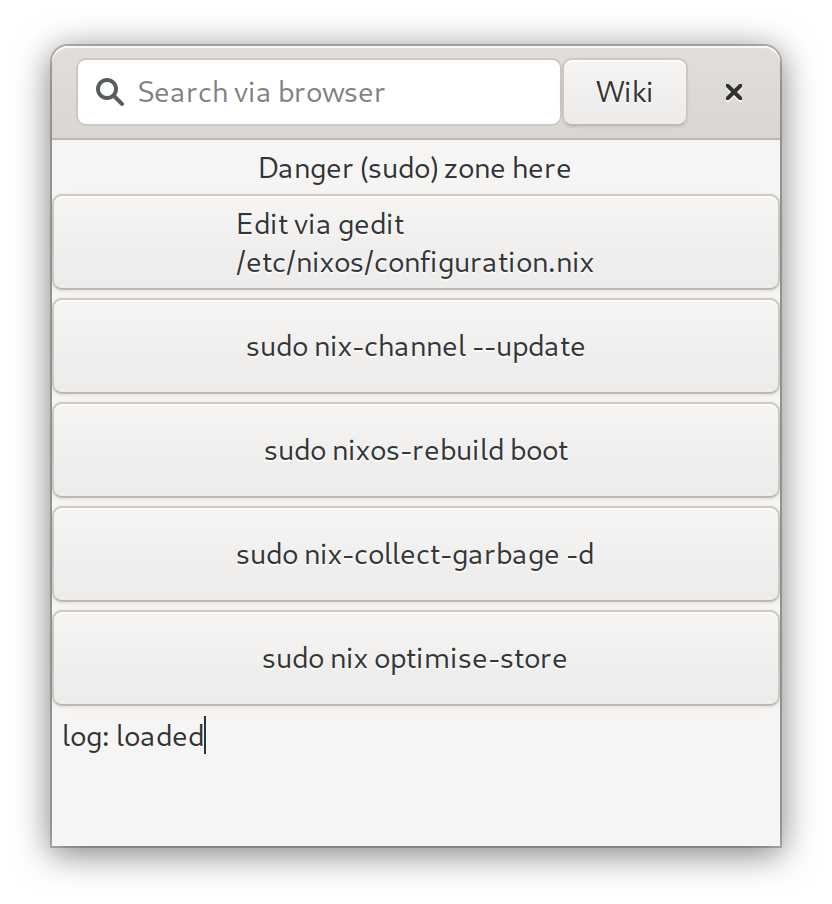
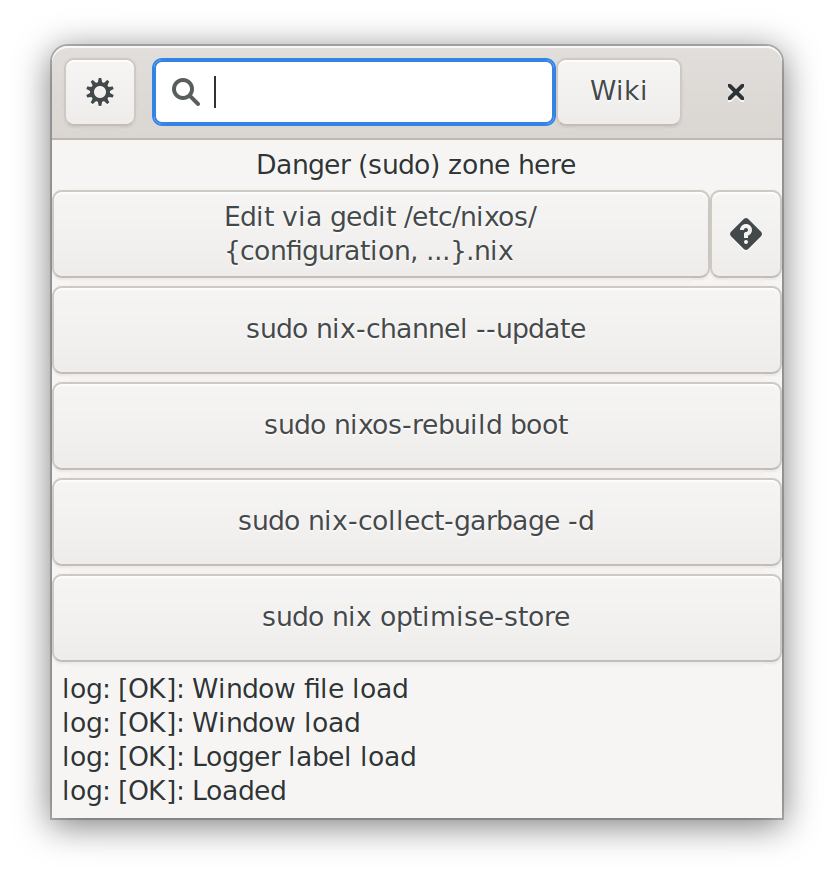
Add simple logging Add configuration testing Start work on config file

diff --git a/main.go b/main.go
@@ -5,47 +5,120 @@ import (
 	"fmt"
 	"log"
 	"os/exec"
+	"strings"
+	"sync"
 
+	"github.com/gotk3/gotk3/glib"
 	"github.com/gotk3/gotk3/gtk"
 )
 
 const (
-	search_nixos = iota
-	search_nixos_wiki = iota
+	search_nixos_packages = iota
+	search_nixos_wiki
 )
 
 const (
-	shell_update = iota
-	shell_rebuild = iota
-	shell_garbage = iota
-	shell_optimize = iota
+	shell_configuration_check = iota
+	shell_update
+	shell_rebuild
+	shell_garbage
+	shell_optimize
 )
 
-//go:embed main.glade
-var main_glade string
+//go:embed main.ui
+var main_ui string
+
+type Config struct {
+	files []string
+}
+
+type Logger struct {
+	logger  *gtk.Label
+	logText []string
+}
+
+type LogEvent struct {
+	err error
+	str string
+}
+
+func (le LogEvent) Error() (result string) {
+	if le.err == nil {
+		result = "[OK]: " + le.str
+	} else {
+		result = le.err.Error() + "\t" + le.str
+	}
+	return
+}
+
+func (l *Logger) Init(errEvent <-chan LogEvent, wgDone func()) {
+	var count int
+	var logLine, outputText string
+	var logText []string = []string{}
+
+	for e := range errEvent {
+		logLine = e.Error()
+		logText = append(logText, logLine)
+		fmt.Println(logLine)
+		if l.logger != nil {
+			if count = len(logText) - 4; count < 0 {
+				count = 4
+			}
+			outputText = "log: " + strings.Join(logText[count:], "\nlog: ")
+			l.logger.SetText(outputText)
+		}
+	}
+	wgDone()
+}
 
 func shell(option int) error {
+	var title string
 	var text string
 	var bash_pressanykey string = ` ; read -n 1 -s -r -p 'Press any key to continue'`
 	switch option {
+	case shell_configuration_check:
+		title = "nixos-rebuild dry-build"
+		text = title
 	case shell_update:
-		text = "sudo nix-channel --update" + bash_pressanykey
+		title = "sudo nix-channel --update"
+		text = title
 	case shell_rebuild:
-		text = "sudo nixos-rebuild boot" + bash_pressanykey
+		title = "sudo nixos-rebuild boot"
+		text = title
 	case shell_garbage:
-		text = "sudo nix-collect-garbage -d" + bash_pressanykey
+		title = "sudo nix-collect-garbage -d"
+		text = title
 	case shell_optimize:
-		text = "sudo nix optimise-store" + bash_pressanykey
+		title = "sudo nix optimise-store"
+		text = title
 	}
-	err := exec.Command("gnome-terminal", "--", "bash", "-c",
-			text,
-		).Start()
+	err := exec.Command("gnome-terminal", "--title="+title, "--", "bash", "-c",
+		text+bash_pressanykey,
+	).Run()
+	return err
+}
+
+func gedit_open(files []string) error {
+	var launch []string
+
+	for i, f := range files {
+		files[i] = "admin:///etc/nixos/" + f + ".nix"
+	}
+
+	launch = append([]string{
+		"-s",
+		"admin:///etc/nixos/configuration.nix",
+	}, files...)
+
+	var err error = exec.Command("gedit",
+		launch...,
+	).Start()
 	return err
 }
 
 func search(option int, text string) error {
 	switch option {
-	case search_nixos:
+	case search_nixos_packages:
 		text = "https://search.nixos.org/packages?channel=21.05&from=0&size=50&sort=relevance&query=" + text
 	case search_nixos_wiki:
 		text = "https://nixos.wiki/index.php?go=Go&search=" + text
@@ -54,21 +127,53 @@ func search(option int, text string) error {
 	return err
 }
 
+func read_config() (Config, error) {
+	var files = []string{
+		"packages",
+		"specialisation", //fileSystems-home hardware-configuration networking-wireless-networks
+	}
+	var conf = Config{
+		files: files,
+	}
+	return conf, nil
+}
+
 func main() {
+	var logChan chan LogEvent = make(chan LogEvent)
+	var err error
+	var b *gtk.Builder
+	var obj glib.IObject
+	var logger Logger = Logger{
+		logger: nil,
+	}
+
+	var wg sync.WaitGroup
+
+	var config Config
+
+	wg.Add(1)
+	go logger.Init(logChan, wg.Done)
+
+	config, err = read_config()
+	logChan <- LogEvent{err, "Config read"}
+
 	// Initialize GTK without parsing any command line arguments.
 	gtk.Init(nil)
 
-	b, err := gtk.BuilderNew()
+	b, err = gtk.BuilderNew()
+	logChan <- LogEvent{err, "Builder create"}
 	if err != nil {
 		log.Fatal("Unable to create builder:", err)
 	}
 
-	err = b.AddFromString(main_glade)
+	err = b.AddFromString(main_ui)
+	logChan <- LogEvent{err, "Window file load"}
 	if err != nil {
 		log.Fatal("Unable to load window file:", err)
 	}
 
-	obj, err := b.GetObject("window_main")
+	obj, err = b.GetObject("window_main")
+	logChan <- LogEvent{err, "Window load"}
 	if err != nil {
 		log.Fatal("Unable to load window:", err)
 	}
@@ -78,19 +183,23 @@ func main() {
 		gtk.MainQuit()
 	})
 
-	obj, _ = b.GetObject("log")
-	log_text := obj.(*gtk.Label)
-	log_text.SetText("log: loaded")
+	obj, err = b.GetObject("log")
+	logChan <- LogEvent{err, "Logger label load"}
+	logger.logger = obj.(*gtk.Label)
+	logChan <- LogEvent{nil, "Loaded"}
 
 	obj, _ = b.GetObject("search_text")
 	search_text := obj.(*gtk.SearchEntry)
-	//obj, _ = b.GetObject("search_button")
-	//search_button := obj.(*gtk.Button)
 	obj, _ = b.GetObject("wiki")
 	wiki_button := obj.(*gtk.Button)
 
+	obj, _ = b.GetObject("open_settings")
+	open_settings := obj.(*gtk.Button)
+
 	obj, _ = b.GetObject("gedit")
 	gedit := obj.(*gtk.Button)
+	obj, _ = b.GetObject("configuration_check")
+	configuration_check := obj.(*gtk.Button)
 	obj, _ = b.GetObject("update")
 	update := obj.(*gtk.Button)
 	obj, _ = b.GetObject("rebuild")
@@ -100,50 +209,56 @@ func main() {
 	obj, _ = b.GetObject("optimize")
 	optimize := obj.(*gtk.Button)
 
-	search_text.Connect("activate", func() {
-		if text, err := search_text.GetText(); err == nil {
-			err = search(search_nixos, text)
-			log_text.SetText(fmt.Sprintf("log: %v", err))
-		}
+	open_settings.Connect("clicked", func() {
+		logChan <- LogEvent{nil, "WIP: settings"}
 	})
 
-	/*search_button.Connect("clicked", func() {
+	search_text.Connect("activate", func() {
 		if text, err := search_text.GetText(); err == nil {
-			err = search(search_nixos, text)
-			log_text.SetText(fmt.Sprintf("log: %v", err))
+			err = search(search_nixos_packages, text)
+			logChan <- LogEvent{err, ("Search in nix: " + text)}
+		} else {
+			logChan <- LogEvent{err, "GetText for Search nix"}
 		}
-	})*/
+	})
 
 	wiki_button.Connect("clicked", func() {
 		if text, err := search_text.GetText(); err == nil {
 			err = search(search_nixos_wiki, text)
-			log_text.SetText(fmt.Sprintf("log: %v", err))
+			logChan <- LogEvent{err, ("Search in wiki: " + text)}
+		} else {
+			logChan <- LogEvent{err, "GetText for Search wiki"}
 		}
 	})
 
 	gedit.Connect("clicked", func() {
-		err = exec.Command("gedit", "admin:///etc/nixos/configuration.nix").Start()
-		log_text.SetText(fmt.Sprintf("log: %v", err))
+		err = gedit_open(config.files)
+		logChan <- LogEvent{err, "Open gedit"}
+	})
+
+	configuration_check.Connect("clicked", func() {
+		err = shell(shell_configuration_check)
+		logChan <- LogEvent{err, "Check configuration"}
 	})
 
 	update.Connect("clicked", func() {
 		err = shell(shell_update)
-		log_text.SetText(fmt.Sprintf("log: %v", err))
+		logChan <- LogEvent{err, "Update nix channels"}
 	})
 
 	rebuild.Connect("clicked", func() {
 		err = shell(shell_rebuild)
-		log_text.SetText(fmt.Sprintf("log: %v", err))
+		logChan <- LogEvent{err, "Rebuild"}
 	})
 
 	garbage.Connect("clicked", func() {
 		err = shell(shell_garbage)
-		log_text.SetText(fmt.Sprintf("log: %v", err))
+		logChan <- LogEvent{err, "Collect garbage"}
 	})
 
 	optimize.Connect("clicked", func() {
 		err = shell(shell_optimize)
-		log_text.SetText(fmt.Sprintf("log: %v", err))
+		logChan <- LogEvent{err, "Optimize store"}
 	})
 
 	// Recursively show all widgets contained in this window.
@@ -152,4 +267,8 @@ func main() {
 	// Begin executing the GTK main loop.  This blocks until
 	// gtk.MainQuit() is run.
 	gtk.Main()
+	close(logChan)
+	wg.Wait()
+
+	// wg.Add(2), saveConfig(), saveLog(), wg.Wait()
 }

diff --git a/README.md b/README.md
@@ -3,11 +3,13 @@
 - Search on
 	- https://search.nixos.org/packages
 	- https://nixos.wiki/
-- gedit to open configuration.nix
+- gedit to open configuration.nix, {packages, specialisation}.nix
+- test current configuration
 - channels update
 - rebuild to boot
 - garbage collect
 - store optimization
+- simple logging
 
 
 | ![Program screenshot](screenshot.png) | ![Program screenshot dark](screenshot_dark.png) |
@@ -15,10 +17,10 @@
 | Adwaita light | Adwaita dark |
 
 ### WIP:
-- logs
+- better logging
+- config file
+- settings
 
 ### TODO:
 - keyboard shortcuts
 - GNOME extension
-
-
